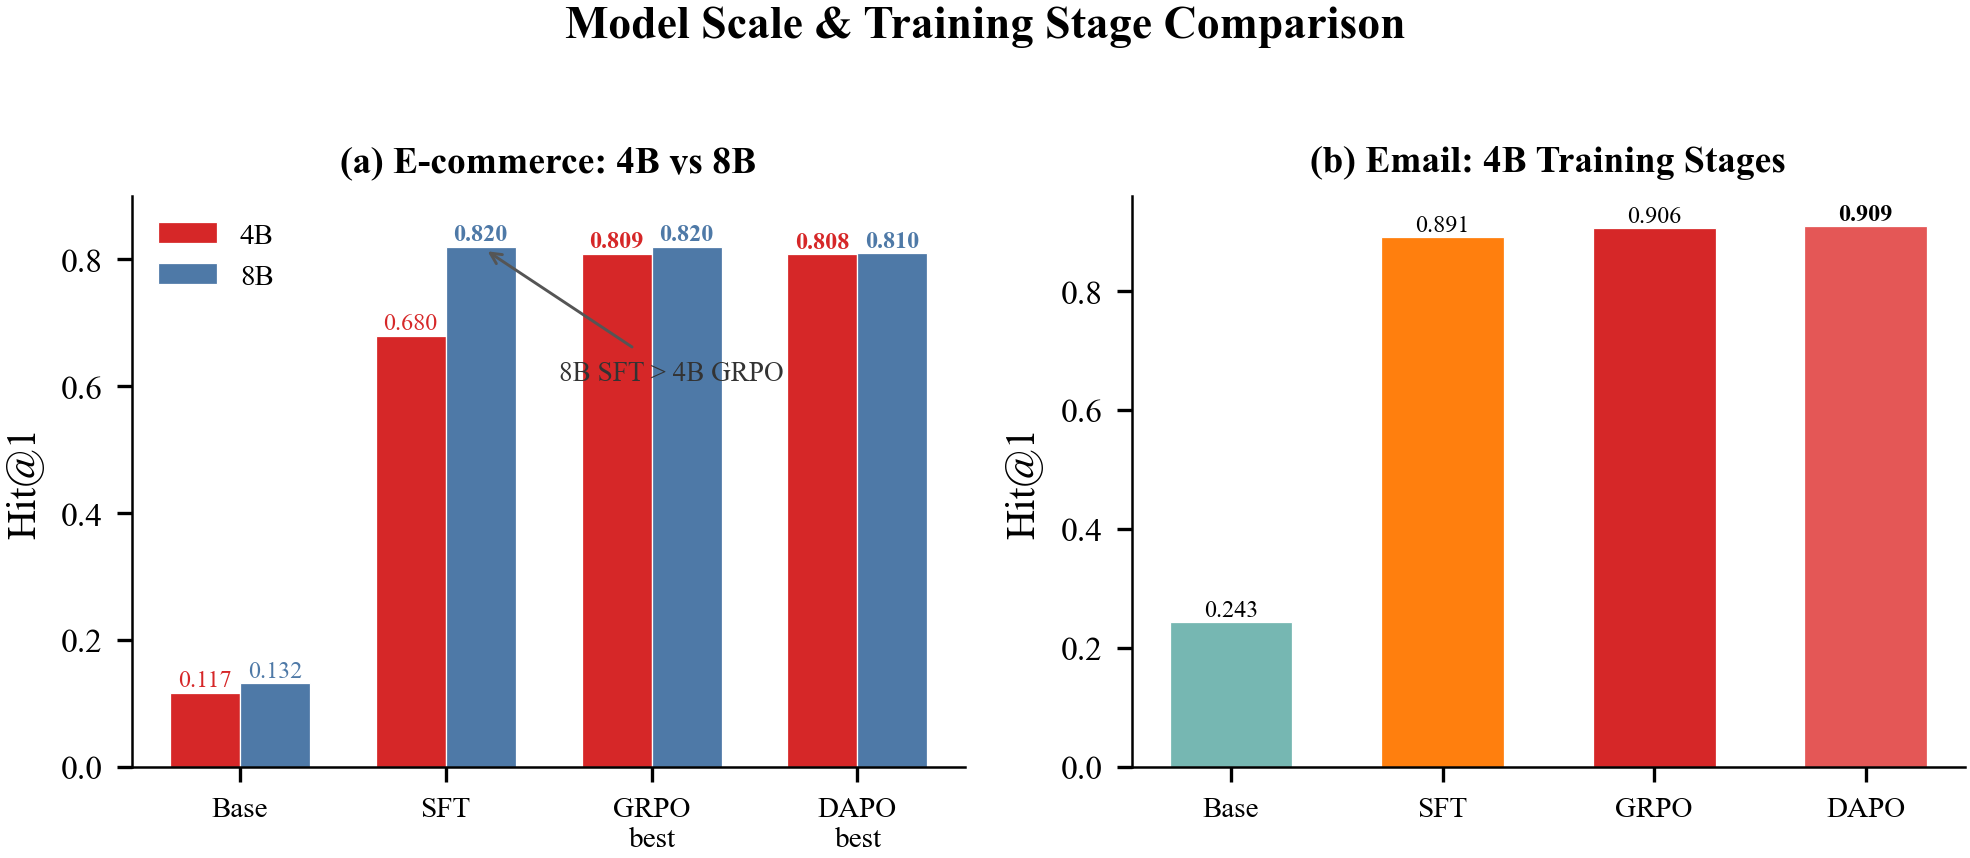
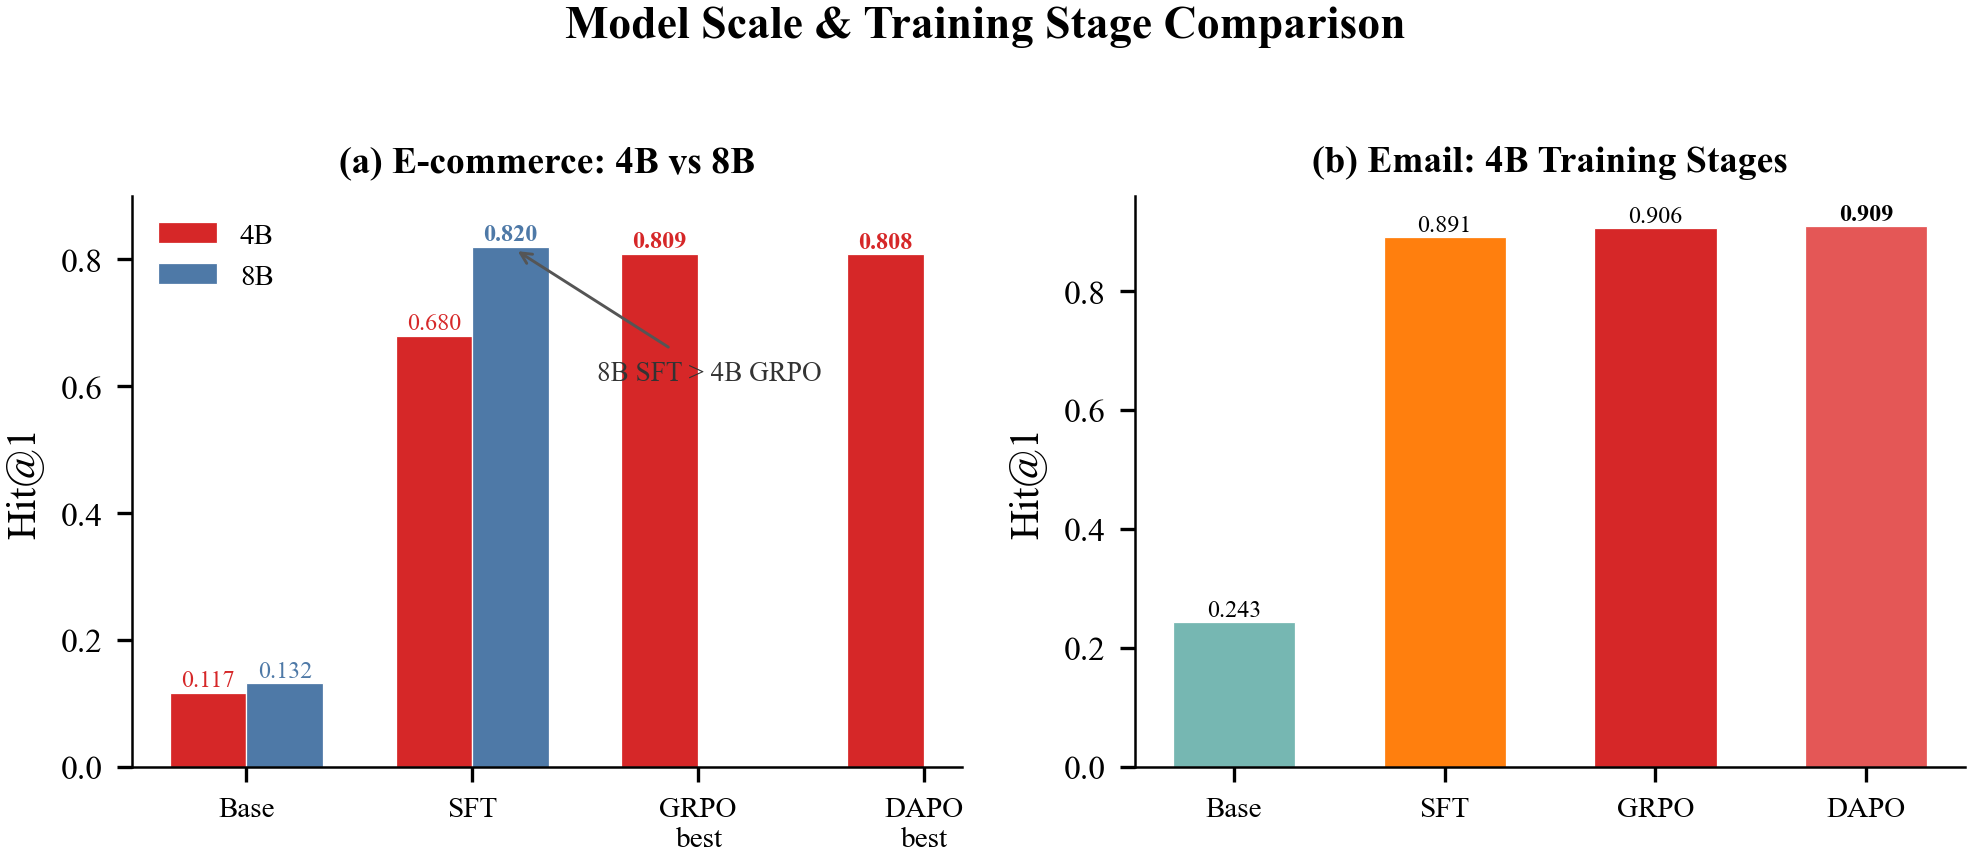
Fix E8 model scaling figure

diff --git a/figures/paper/generate_all_figures.py b/figures/paper/generate_all_figures.py
@@ -667,7 +667,7 @@ def fig_e8_model_scaling():
 
     stages = ['Base', 'SFT', 'GRPO\nbest', 'DAPO\nbest']
     h1_4b = [0.117, 0.680, 0.809, 0.808]
-    h1_8b = [0.132, 0.820, 0.820, 0.810]
+    h1_8b = [0.132, 0.820]
 
     x = np.arange(len(stages))
     w = 0.34
@@ -676,7 +676,7 @@ def fig_e8_model_scaling():
 
     bars4 = ax1.bar(x - w/2, h1_4b, w, color=c_4b, edgecolor='white',
                     linewidth=0.3, label='4B')
-    bars8 = ax1.bar(x + w/2, h1_8b, w, color=c_8b, edgecolor='white',
+    bars8 = ax1.bar(x[:2] + w/2, h1_8b, w, color=c_8b, edgecolor='white',
                     linewidth=0.3, label='8B')
     for bars, vals, color in [(bars4, h1_4b, c_4b), (bars8, h1_8b, c_8b)]:
         for bar, v in zip(bars, vals):
